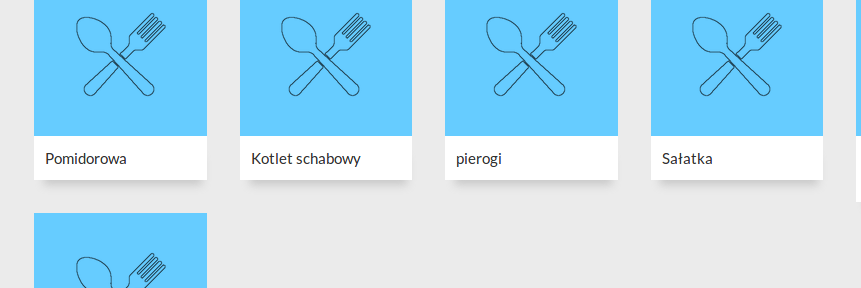
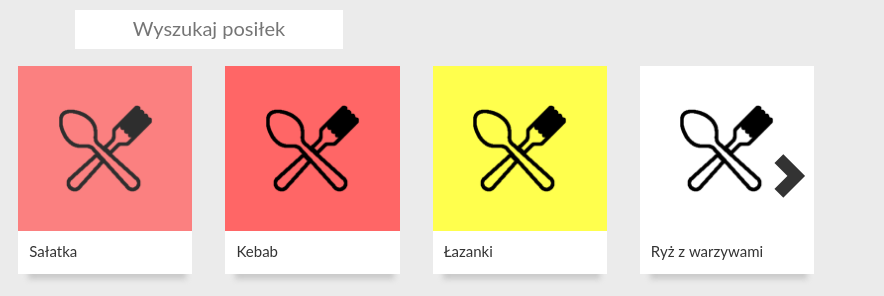
new view - edit meals, update Meal model

diff --git a/public/javascripts/mealsCtrl.js b/public/javascripts/mealsCtrl.js
@@ -1,11 +1,12 @@
 angular.module('easyshopping').controller('mealsCtrl', [
-'$scope','$location','auth', '$http',
+'$scope','$location','auth', '$http','$q',
 
-function($scope,$location,auth,$http){
-
-	$http.get("/mealslist/" + auth.currentUser() ).success(function(data) {
+function($scope,$location,auth,$http,$q){
+	$scope.begin=0;
+	$http.get("/mealslist/"+auth.currentUser()).success(function(data){
 			$scope.meals=data;
-	});
+			$scope.begin=0-$scope.meals.length;
+		});
 	$scope.dayIndex=0;
 	$scope.picked = [];
 	$scope.list=[]
@@ -17,22 +18,22 @@ function($scope,$location,auth,$http){
 	{name:"Piątek",meals:[] },
 	{name:"Sobota",meals:[] },
 	{name:"Niedziela",meals:[] }]
+	
 
 	$scope.ingredients = [{name: "", count: 0, unit:""}];
 
 	$scope.setDay = function(index){
 		$scope.dayIndex=index;
 	}
-	$scope.addToMealsList = function(index){
-		$scope.days[$scope.dayIndex].meals.push($scope.meals[index]);
-		tabs = $scope.listCompare($scope.meals[index]);
+	$scope.addToMealsList = function(meal){
+		$scope.days[$scope.dayIndex].meals.push(meal);
+		tabs = $scope.listCompare(meal);
 		for(i=0;i<=tabs.length-1;i++){
 			$scope.list.push(tabs[i]);
 		}
 	}
 	$scope.addMeal = function(){
 		$scope.meals.push({name: $scope.newMealName, products: $scope.ingredients});
-		console.log($scope.meals);
 		$scope.ingredients=[{name: "", value: 0, unit:""}];
 		$scope.newMealName=""
 	}
@@ -84,11 +85,13 @@ function($scope,$location,auth,$http){
 		}
 	}
 
-	$scope.randomMealColor = function(){
-		var tab = ["#ffff4d", "#88ff4d", "#66ccff","#00ffcc"]
-		var number = Math.floor((Math.random() * 3) + 0);
+	$scope.moveCounter=0;
+	
+	$scope.moveList = function(direction){
 
-		return tab[number];
+		$scope.listEnd=Math.floor($scope.meals.length/6);
+		if(direction==='left' && $scope.begin!=(0-$scope.meals.length)) {$scope.begin-=6;$scope.moveCounter--;}
+		else if(direction==='right' && $scope.moveCounter!=$scope.listEnd) {$scope.begin+=6; $scope.moveCounter++;}
 	}
 
 	$scope.removeItem = function(dayindex,mealindex){
@@ -100,7 +103,13 @@ function($scope,$location,auth,$http){
  
 	}
 	$scope.addSeparate = function(x,y,z){
-		console.log(y)
 		$scope.list.push({name: x, count: y, unit:z});
 	}
+
+	$scope.setX = function(){
+		return 0;
+	}
+	$scope.setY = function(){
+		return 6;
+	}	
 }]);

diff --git a/public/stylesheets/mealcontent.css b/public/stylesheets/mealcontent.css
@@ -1,9 +1,41 @@
+.removeOutline:focus{
+	outline-width: 0;
+}
+@media (min-width: 768px){
+.form-inline .form-control {
+    display: inline-block;
+    width: 100% !important; 
+    vertical-align: middle;
+}
+}
+.form-control:focus, .unitSelect:focus, .rightBarinput:focus{
+     border-color: #5cb85c !important; 
+    outline: 0 ;
+}
+input.rightBarinput::-webkit-input-placeholder {
+  color: white;
+}
+.unitSelect{
+	width:100%;
+background-color: white;
+padding: 7px 10px 10px 10px;
+text-align: center;
+border-color: lightgray !important;
+border-radius: 5%;
+border: none;
+border: solid;
+border-width: 1.2px;
+}
+
 .mealHead{
-	background-color:#66ccff;
 	width:100%;
 	height:150px;
 	margin:auto;
 	text-align:center;
+}
+.mealHead:hover{
+	cursor:pointer;
+	opacity:0.8;
 }
 .mealHead img{
 	margin-top:30px;
@@ -113,12 +145,7 @@
 	border-radius:5px;
 	box-shadow: 2px 12px 7px -7px rgba(161,161,161,0.46);
 }
-.formcontent form{
-	border-bottom:dotted;
-	border-width:1px;
-	border-color:gray;
-	padding-bottom:20px;
-}
+
 .formcontent form input{
 	margin-right:10px;
 }
@@ -139,10 +166,48 @@
 }
 
 .edititem{
-	cursor:pointer;
-	
-	padding-left: 5px;
+/*	cursor:pointer;*/
+	color:gray;
+
+	padding-left: 5px;color:gray;
+
 }
-.edititem:hover{
+/*.edititem:hover{
 	transform:scale(1.2);
+}*/
+#searchInput{
+	text-align:center;
+	margin-bottom:15px;
+}
+#searchInput input{
+	font-size:18px;
+	padding: 5px 10px 5px 10px;
+	text-align:center;
+	border:none;
+	border-radius:0%;
+}
+
+#listWrapper{
+	position:relative;
+	overflow: auto;
+
+}
+#listWrapper span{
+	position:absolute;
+	top:50%;
+	font-size:40px;
+}
+.left{
+	transform: translate(40%,-50%);
+	left: 0%;
+}
+.right{
+	transform: translate(-50%,-50%);
+	right: 0%;
+}
+
+#listWrapper span:hover{
+	cursor:pointer;
+	color:white;
+
 }

diff --git a/public/javascripts/editMealsCtrl.js b/public/javascripts/editMealsCtrl.js
@@ -7,10 +7,12 @@ function($scope,auth,$http){
 	$scope.logout = auth.logOut;
 	$scope.meals = new Array();
 
-	$http.get("/mealslist/" + auth.currentUser() ).success(function(data) {
+	$scope.refresh=function(){
+		$http.get("/mealslist/"+auth.currentUser()).success(function(data){
 			$scope.meals=data;
-			console.log($scope.meals);
-	});
+		});
+	};
+	$scope.refresh();
 
 	$scope.arrowClicked = function(index){
 		$scope.dupa=true;
@@ -23,10 +25,12 @@ function($scope,auth,$http){
 		item.style.transform = `rotate(180deg)`;
 	};
 
-	$scope.removeMeal = function(index){
-		console.log(index);
+	
+	$scope.removeMeal = function(mealobj){
+
+
 		swal({
-			title: 'Na pewno chcesz usunąć posiłek ' + '<i>' + $scope.meals[index].name +'?',
+			title: 'Na pewno chcesz usunąć posiłek ' + '<i>' + mealobj.name +'?',
 			type: 'warning',
 			showCancelButton: true,
 			confirmButtonColor: '#3085d6',
@@ -34,6 +38,9 @@ function($scope,auth,$http){
 			confirmButtonText: 'Tak',
 			cancelButtonText: 'Nie'
 		}).then(function (){
+			$http.delete("/mealslist/delete/"+mealobj._id).then(function(response){
+				$scope.refresh();
+			});
 			swal(
 				'Zrobione!',
 				'Posiłek został usunięty.',

diff --git a/routes/dbroutes.js b/routes/dbroutes.js
@@ -5,6 +5,7 @@ var passport = require('passport');
 var jwt = require('express-jwt');
 var User = mongoose.model('User');
 var Meal = mongoose.model('Meal');
+var mongodb = require('mongodb');
 
 var auth = jwt({secret: 'SECRET', userProperty: 'payload'});
 
@@ -20,6 +21,17 @@ router.post('/mealslist', function(req,res,next){
   meal.save(function(err,meals){
     if(err){return next(err);}
     res.json(meal);
+  });
+});
+
+router.delete('/mealslist/delete/:objid', function(req,res,next){
+  Meal.findById(req.params.objid,function(err,meal){
+    if(err) {return next(err);}
+    if(!meal) {return res.send(404);}
+    meal.remove(function(err){
+      if(err) {return handleError(res,err);}
+      return res.send(204);
+    });
   });
 });
 

diff --git a/models/Meals.js b/models/Meals.js
@@ -4,7 +4,12 @@ var MealSchema = new mongoose.Schema({
   username: String,
   products: [
   			{name:String,count:Number,unit:String}
-  			]
+  			],
+  color: {type:String, default: function(){var tab = ["#ffff4d", "#88ff4d", "#66ccff","#00ffcc","#ff6666","#c175ec","#989898","#ffffff","#1aff45"];
+	var number = Math.floor((Math.random() * 9) + 0);
+	return tab[number];}} 
 });
+
+
 
 mongoose.model('Meal', MealSchema);

diff --git a/public/stylesheets/rightbar.css b/public/stylesheets/rightbar.css
@@ -1,5 +1,6 @@
 .rightBar{
 	position:fixed;
+	z-index: 1030;
 	top:0;
 	right:0;
 	height:auto;
